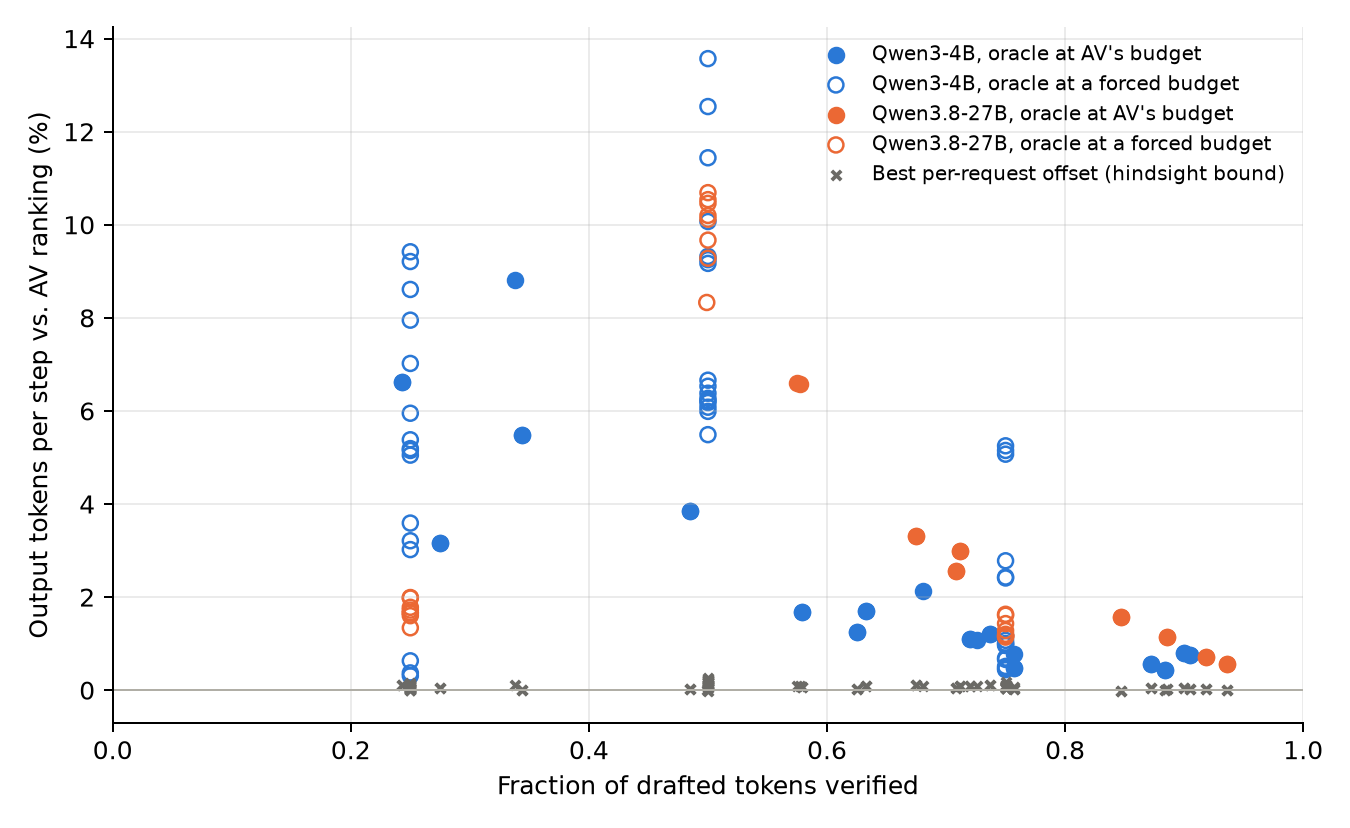
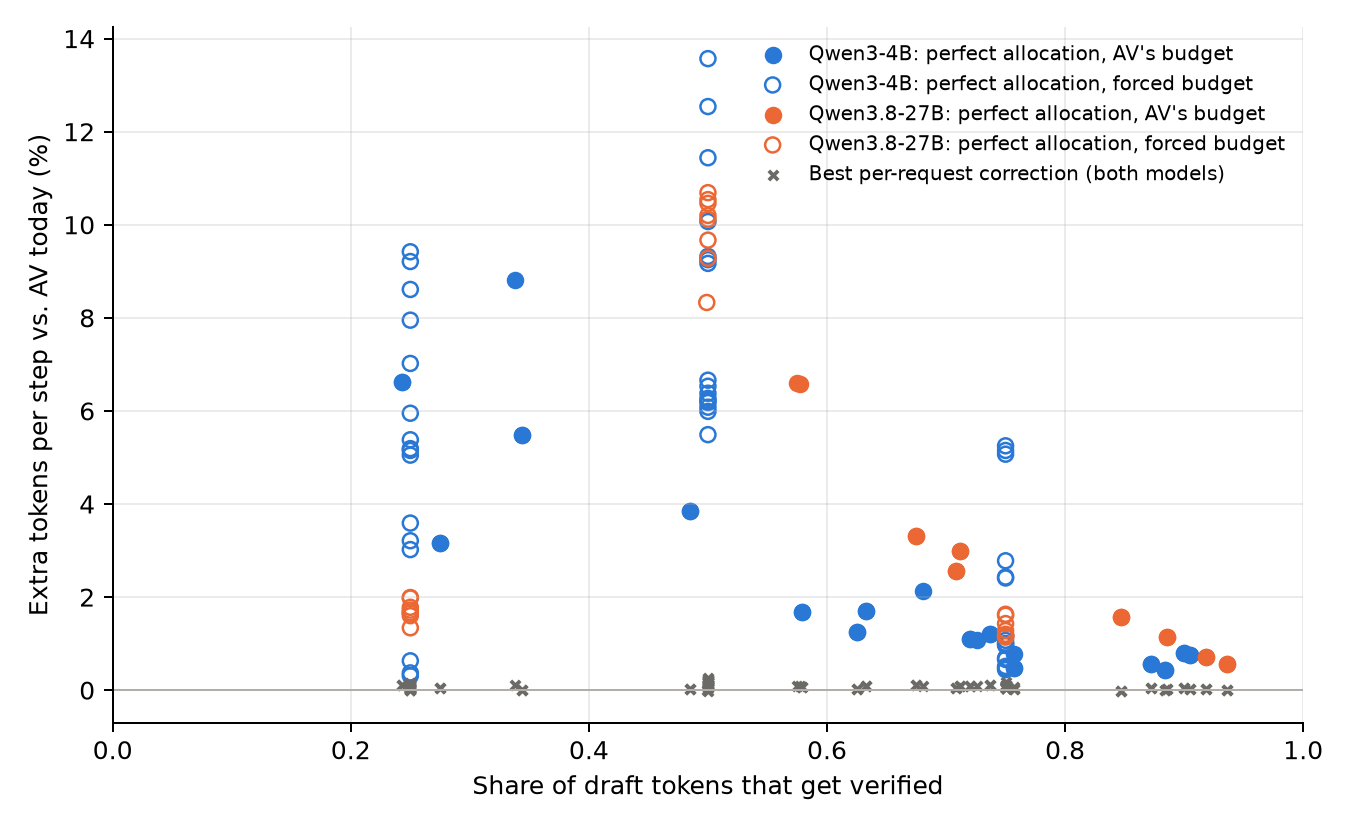
docs(research): rewrite the AV allocation note for readers

diff --git a/docs/research/vllm-knobs/adaptive-verification-allocation-oracle-headroom-tomasruizt.md b/docs/research/vllm-knobs/adaptive-verification-allocation-oracle-headroom-tomasruizt.md
@@ -1,5 +1,5 @@
 ---
-title: "Adaptive verification: oracle headroom of the per-request draft allocation, and why per-request uncertainty does not capture it (@tomasruizt)"
+title: "How much better could adaptive verification pick which drafts to verify? (@tomasruizt)"
 tags:
   - DFlash2
   - Adaptive verification
@@ -13,58 +13,107 @@ tags:
 **[@tomasruizt](https://github.com/tomasruizt)** posted on **2026-11-20**
 </div>
 
-# Adaptive verification: oracle headroom of the per-request draft allocation, and why per-request uncertainty does not capture it (@tomasruizt)
+# How much better could adaptive verification pick which drafts to verify? (@tomasruizt)
 
 Joint work with [Shubhra Pandit](https://github.com/shubhra).
 
 ## Summary
 
-Inside each step, adaptive verification (AV) gives its draft budget to the (request, position) slots with the highest survival probability, the running product of the online acceptance estimator's per-position probabilities ([vllm#52228](https://github.com/vllm-project/vllm/pull/52228)). We measured how many more tokens per step a perfect ranking would accept at the same budget, and therefore the same step cost. The oracle gains +0.4% to +3.3% where AV verifies 60% to 90% of drafts, and **+6.6% to +8.8%** where AV trims hard: Qwen3.8-27B at c256 (58% verified) and Qwen3-4B at c512 under the rejection-sampler logits cap (34% verified). No per-request uncertainty policy captures any of it (-0.5% to +0.1%). Even a per-request offset fitted in hindsight on the request's full history gains at most +0.2%. The gap is per draft, not per request.
+Adaptive verification (AV) does not verify every draft token. Each step it estimates how likely each draft is to be accepted, and sends only the most promising ones to the target model. We asked two questions:
 
-![Oracle and per-request headroom vs. the fraction of drafts verified](../../assets/research/av-allocation-oracle-headroom.png)
+1. If AV's estimate were perfect, how many more tokens would it accept per step, at the same cost?
+2. Can adding per-request uncertainty to the estimate recover some of that gain? The idea: give extra slots to requests we know little about, to find out whether their later drafts would be accepted.
 
-Each point is one model, workload and concurrency. Filled: at the budget AV chose. Hollow: at a budget forced to 25%, 50% or 75% of the drafts. Gray crosses: the hindsight per-request offset at the same budgets.
+What we found:
 
-## Motivation
+- **A perfect estimate would add little in most settings:** under 3.5% more tokens per step when AV already verifies 60% to 90% of the drafts.
+- **The gain grows when AV has to cut more drafts:** +6.6% for Qwen3.8-27B at concurrency 256, and +8.8% for Qwen3-4B at concurrency 512.
+- **Per-request uncertainty recovers none of it.** Even knowing each request's true bias in advance would gain at most +0.2%. The estimate is not systematically wrong about some requests. It is wrong about individual drafts, and those misses look random from one step to the next.
+- So, to improve AV's estimate, we need better signals about each individual draft, not uncertainty about each request.
 
-An earlier experiment by Shubhra Pandit ([shubhra/vllm#1](https://github.com/shubhra/vllm/pull/1)) added an uncertainty bonus to the estimator's logit and saw no change in throughput or acceptance length. That bonus is one value per draft position, shared by every request, and it decays with the lifetime label count of the position. With about 100 labels per position per step it drops to ~0.09 logits after the first step, so it never changed which requests get the verification slots. Per draft position, verified counts and match rates in the two arms agree within 1 to 2%.
+![Extra tokens per step from a perfect allocation, vs. the share of drafts AV verifies](../../assets/research/av-allocation-oracle-headroom.png)
 
-The open question was whether uncertainty **per request**, which changes the allocation inside a step, could help. A request that keeps getting 1 or 2 slots never reveals whether its deep drafts would have been accepted, so its estimate is never corrected. Before building such a policy we measured the upper bound.
+Each point is one model, dataset and concurrency. Filled circles use the number of drafts AV actually chose to verify. Hollow circles force that number to 25%, 50% or 75% of the drafts, to show what happens when the budget is tighter. The gray crosses (near zero) are the best per-request correction at the same budgets.
 
-## Setup
+## Background
 
-- Targets: `Qwen/Qwen3-4B` (BF16) and `Qwen/Qwen3.8-27B` (BF16). Drafters: `RedHatAI/Qwen3-4B-speculator.dflash2` (K=8) and `RedHatAI/Qwen3.8-27B-speculator.dflash2` (K=7), `"method":"dflash"`, AV on.
-- Evaluation: `RedHatAI/speculator_benchmarks`. Either one subset per run (HumanEval, math_reasoning, writing) or all 9 subsets in one seeded shuffle ("mixed", 924 prompts), so that every batch mixes code, math, writing, QA, RAG, summarization, translation and tool calls. Temperature 0, max 1,024 output tokens, 4 x c requests per concurrency (at least 128).
-- Serving: vLLM main `89e860de00` (2026-11-17) plus a trace patch, branch [`av-alloc-headroom`](https://github.com/tomasruizt/vllm/tree/av-alloc-headroom) (`3138435083`). TP1 for the 4B, TP1 and TP2 for the 27B, prefix caching off, `--max-num-seqs` equal to the highest concurrency of the run.
-- CUDA graphs cover every tested step: `max_cudagraph_capture_size = max_num_seqs x (K+1)`. The Blackwell default of 1,024 tokens sends the 4B c128 verify-all step (1,152 tokens) to eager mode.
-- Client: AIPerf 0.12.0, closed loop, one server per mode swept over the concurrencies.
-- Software and hardware: PyTorch 2.14.0+cu132, 1x or 2x NVIDIA B200 (183 GB) per server.
+How AV picks drafts today ([vllm#52228](https://github.com/vllm-project/vllm/pull/52228)): for every draft token, an online estimator predicts the chance that the target accepts it, from the drafter's own confidence. A draft only counts if all drafts before it in the same request are accepted too, so AV multiplies these chances along each request. It then verifies the B most promising drafts in the batch, where B comes from a cost model.
 
-### Method
+Shubhra first tried adding an uncertainty bonus to the estimator ([shubhra/vllm#1](https://github.com/shubhra/vllm/pull/1)) and saw no change in throughput or acceptance. That bonus was the same for every request and shrank to almost zero after the first step, so it never changed which requests got verified. A per-request version looked more promising: a request that only ever gets 1 or 2 drafts verified never shows whether its later drafts would have been accepted, so the estimator could stay wrong about it.
 
-1. **Trace.** For every verification step the patch logs each request's per-position acceptance probabilities (the ones AV ranks), its scheduled and admitted draft counts, the number of accepted drafts, and the budget AV chose.
-2. **Verify all.** With `AV_TRACE_VERIFY_ALL=1` the server still computes AV's budget but verifies every draft, so the true accepted length `a` of each request is known. At temperature 0 a width `w` would have accepted `min(w, a)`.
-3. **Replay.** At each step's budget `B`, replay allocation policies and count accepted tokens. The metric is output tokens per step (requests + accepted drafts) relative to AV's own ranking. Same `B` means the same step cost, so this is an upper bound on the throughput change.
-   - `oracle`: knows `a`, accepts `min(B, sum a)`.
-   - `calib`: AV's ranking with a per-request logit offset `u_r`, learned online by Newton steps from only the labels the policy itself verified (censored, like production). `calib_fast` forgets old labels (decay 0.8) to follow phases within a request.
-   - `UCB`: `u_r + 1.0 x sd(u_r)`, so rarely verified requests get explored. `Thompson`: `u_r` sampled from its posterior.
-   - `hindsight`: each request's offset fitted on all of its uncensored labels. Not causal, it bounds every policy that shifts one offset per request.
-4. **Check the replay.** A second server runs normal AV with the same trace. Replaying AV's ranking reproduces the widths production admitted in 99.8% to 99.96% of steps in every run.
+## How we measured it
 
-All policies stay lossless: they depend on the drafter's distribution (`q_max`) and on outcomes of earlier steps, never on the drafted token being trimmed.
+1. **Find out what would have been accepted.** We ran vLLM in a mode that verifies every draft, while still logging what AV would have chosen. At temperature 0 this tells us, for every request and step, how many drafts would have been accepted at any verification length.
+2. **Replay offline.** Step by step, with the same number of verified drafts that AV chose (so the same step cost), we compared:
+   - **AV today.**
+   - **Perfect allocation:** knows in advance how many drafts each request will accept.
+   - **Per-request strategies:** learn a correction for each request from the drafts they verified, either used directly or with exploration (UCB, Thompson sampling). Like the real system, they only learn from what they verify. All of them keep sampling lossless: they never look at the drafted token they are deciding about.
+   - **Best per-request correction:** each request's correction fitted afterwards on its complete history. No per-request strategy can beat it.
+3. **Check the replay.** On a normal AV run, replaying "AV today" reproduces AV's real decisions in 99.8% of steps or more.
 
-## Reproduction
+We report tokens produced per step, relative to AV today. The step cost is the same, so this is the most throughput a better allocation could add.
+
+## Results
+
+Mixed prompts (all 9 subsets of `RedHatAI/speculator_benchmarks`), temperature 0:
+
+| Model                      | Concurrency | Drafts AV verifies | Perfect allocation | Best per-request correction |            UCB |       Thompson |
+| -------------------------- | ----------: | -----------------: | -----------------: | --------------------------: | -------------: | -------------: |
+| Qwen3.8-27B (TP2)          |         128 |                68% |              +3.3% |                       +0.1% |          -0.1% |          -0.3% |
+| Qwen3.8-27B (TP2)          |         256 |                58% |          **+6.6%** |                       +0.1% |          -0.1% |          -0.3% |
+| Qwen3-4B                   |          64 |                28% |              +3.2% |                       +0.1% |          -0.0% |          -0.2% |
+| Qwen3-4B                   |         128 |                76% |              +0.5% |                       +0.0% |          -0.0% |          -0.1% |
+| Qwen3-4B                   |         256 |                76% |              +0.8% |                       +0.1% |          -0.0% |          -0.1% |
+| Qwen3-4B                   |         512 |                34% |          **+8.8%** |                       +0.1% |          -0.1% |          -0.4% |
+| Both, budget forced to 50% |   64 to 512 |                50% |        +9% to +11% |              +0.1% to +0.2% | -0.2% to -0.0% | -0.5% to -0.4% |
+
+The 27B served 86 and 128 requests on average at concurrency 128 and 256 (KV cache limit). The Qwen3-4B row at 512 includes vLLM's limit on how many tokens can be verified per step (see below).
+
+Earlier runs with single datasets (HumanEval, math_reasoning, writing) and with thinking off show the same pattern: +0.4% to +3% when AV verifies most drafts, up to +6.6% when it verifies fewer than half, and at most +0.3% for any per-request strategy, even with a forced budget.
+
+**Why per-request uncertainty does not help.** Compared to the estimate, requests differ only slightly in how often their drafts are accepted: a standard deviation of 1 to 5 percentage points across requests. And a request's error at one step says almost nothing about its error at the next step (correlation 0.01 to 0.05). There is nothing per request to learn or to explore.
+
+## Other things we learned
+
+- **CUDA graphs.** On Blackwell, vLLM captures graphs up to 1,024 tokens by default. A step that verifies more tokens runs without graphs and is much more expensive, which also distorts AV's cost model. We captured graphs up to `max_num_seqs x (K+1)` tokens in all runs above.
+- **A hidden cap on AV's budget.** The rejection sampler holds target logits in a 1 GB buffer, so AV can verify at most about 1 GB / (vocab size x 4 bytes) tokens per step: 1,766 for Qwen3-4B and 1,081 for Qwen3.8-27B. For Qwen3-4B at concurrency 512 this cap, not the cost model, decides how many drafts AV verifies (34% instead of 68%).
+- **The estimator stays calibrated** even though it only learns from the drafts AV verifies: predicted and observed acceptance agree within 0.6 percentage points at every position.
+- **The drafter's confidence is fully used.** A more flexible calibration of the same signal gains nothing (-0.1% to +0.0%).
+
+## Limitations
+
+- The replay assumes each request produces the same drafts it produced in the verify-all run. A different allocation would change what gets drafted next.
+- We measure tokens per step at equal cost, not end-to-end throughput.
+- Only temperature 0, B200 GPUs, DFlash2 drafters and two dense Qwen targets. We did not test DSpark or its trained confidence head, other GPUs, or MoE targets.
+
+## Next steps
+
+Test new signals about each individual draft that keep sampling lossless, for example the target model's entropy at the last accepted token (known before drafting), or the drafter's entropy and top-2 margin combined with its confidence. Evaluate them on these traces in the settings with headroom (Qwen3.8-27B at concurrency 256, Qwen3-4B at concurrency 512).
+
+## Setup and reproduction
+
+<details markdown>
+<summary>Setup</summary>
+
+- Targets: `Qwen/Qwen3-4B` and `Qwen/Qwen3.8-27B` (BF16). Drafters: `RedHatAI/Qwen3-4B-speculator.dflash2` (8 draft tokens) and `RedHatAI/Qwen3.8-27B-speculator.dflash2` (7 draft tokens), AV on.
+- Data: all 9 subsets of `RedHatAI/speculator_benchmarks` (924 prompts) shuffled with `random.Random(0)`, thinking on, max 1,024 output tokens, 4 x concurrency requests per run.
+- vLLM main `89e860de00` (2026-11-17) plus a trace patch: branch [`av-alloc-headroom`](https://github.com/tomasruizt/vllm/tree/av-alloc-headroom) (`3138435083`). `AV_TRACE_VERIFY_ALL=1` verifies every draft, `AV_TRACE_MAX_CHUNK_BYTES` lifts the 1 GB buffer limit so the verify-all runs are complete.
+- Client: AIPerf 0.12.0. Hardware: NVIDIA B200 (183 GB), PyTorch 2.14.0+cu132.
+
+</details>
+
+<details markdown>
+<summary>Commands</summary>
 
 ```bash
-# Normal AV. For the oracle trace add AV_TRACE_VERIFY_ALL=1.
-# AV_TRACE_MAX_CHUNK_BYTES lifts the 1GB rejection-sampler buffer (see Observations).
-AV_TRACE_PATH=trace.jsonl AV_TRACE_MAX_CHUNK_BYTES=8589934592 \
+AV_TRACE_PATH=trace.jsonl AV_TRACE_VERIFY_ALL=1 AV_TRACE_MAX_CHUNK_BYTES=8589934592 \
 vllm serve Qwen/Qwen3.8-27B --max-model-len 16384 --max-num-seqs 256 --tensor-parallel-size 2 \
   --max-num-batched-tokens 16384 --gpu-memory-utilization 0.85 --no-enable-prefix-caching \
   --speculative-config '{"model":"RedHatAI/Qwen3.8-27B-speculator.dflash2","num_speculative_tokens":7,"method":"dflash","enable_adaptive_verification":true}' \
   --default-chat-template-kwargs '{"enable_thinking": true}' \
   --compilation-config '{"max_cudagraph_capture_size": 2048}'
 
+AV_TRACE_PATH=trace.jsonl AV_TRACE_VERIFY_ALL=1 AV_TRACE_MAX_CHUNK_BYTES=8589934592 \
 vllm serve Qwen/Qwen3-4B --max-model-len 16384 --max-num-seqs 512 \
   --max-num-batched-tokens 16384 --gpu-memory-utilization 0.85 --no-enable-prefix-caching \
   --speculative-config '{"model":"RedHatAI/Qwen3-4B-speculator.dflash2","num_speculative_tokens":8,"method":"dflash","enable_adaptive_verification":true}' \
@@ -77,51 +126,13 @@ aiperf profile --model Qwen/Qwen3-4B --tokenizer Qwen/Qwen3-4B --url http://127.
   --extra-inputs max_tokens:1024 --extra-inputs temperature:0
 ```
 
-`mixed.jsonl` holds one `{"text": prompt}` per line: the `prompt` field of all 9 subsets of `RedHatAI/speculator_benchmarks`, shuffled with `random.Random(0)`.
+Drop `AV_TRACE_VERIFY_ALL=1` for the normal AV run that checks the replay. `mixed.jsonl` holds one `{"text": prompt}` per line.
 
-## Results
-
-Settings with headroom. Mixed workload, thinking on, full CUDA graph coverage. Tokens per step vs. AV's ranking at the same budget:
-
-| Target          | c (mean running) | Budget                    | Drafts verified |          Oracle | Hindsight offset |            calib |              UCB |         Thompson |
-| --------------- | ---------------: | ------------------------- | --------------: | --------------: | ---------------: | ---------------: | ---------------: | ---------------: |
-| Qwen3.8-27B TP2 |         128 (86) | AV                        |             68% |           +3.3% |           +0.10% |           -0.09% |           -0.09% |           -0.29% |
-| Qwen3.8-27B TP2 |        256 (128) | AV                        |             58% |       **+6.6%** |           +0.09% |           -0.12% |           -0.13% |           -0.34% |
-| Qwen3-4B        |          64 (50) | AV                        |             28% |           +3.2% |           +0.05% |           -0.04% |           -0.04% |           -0.22% |
-| Qwen3-4B        |         128 (97) | AV                        |             76% |           +0.5% |           +0.03% |           -0.02% |           -0.02% |           -0.08% |
-| Qwen3-4B        |        256 (194) | AV                        |             76% |           +0.8% |           +0.06% |           -0.02% |           -0.02% |           -0.13% |
-| Qwen3-4B        |        512 (393) | AV, cap lifted            |             68% |           +2.1% |           +0.09% |           -0.05% |           -0.07% |           -0.20% |
-| Qwen3-4B        |        512 (393) | AV, production logits cap |             34% |       **+8.8%** |           +0.12% |           -0.11% |           -0.12% |           -0.41% |
-| both            |        64 to 512 | forced to 50%             |             50% | +9.2% to +10.7% | +0.11% to +0.22% | -0.20% to -0.04% | -0.19% to -0.03% | -0.53% to -0.35% |
-
-Earlier runs, which do not change the conclusion:
-
-- Qwen3-4B, one subset per run, thinking on, c16 to c64 (default graphs): oracle +0.4% to +1.3% at c32 to c64 (AV verifies 63% to 90%), +3.9% to +6.6% at c16 (24% to 49%). Per-request policies -0.3% to +0.06%, hindsight at most +0.12%.
-- Qwen3-4B and Qwen3.8-27B (TP1), mixed, thinking off, c32 to c128: oracle +1.1% to +3.0%, hindsight at most +0.08%.
-- Qwen3.8-27B TP1, mixed, thinking on, c64 to c256: oracle +0.6% to +1.2%. The KV cache saturates at 49 to 56 running requests on average, so AV verifies 89% to 94% of drafts.
-
-Why per-request information does not help. Residual = observed minus predicted acceptance on the uncensored labels:
-
-| Workload             | sd of a request's mean residual | Split-half correlation of a request's residual | Step-to-step correlation |
-| -------------------- | ------------------------------: | ---------------------------------------------: | -----------------------: |
-| Qwen3-4B, one subset |                  0.014 to 0.033 |                                   0.10 to 0.77 |           0.014 to 0.052 |
-| Qwen3-4B, mixed      |                  0.027 to 0.046 |                                   0.24 to 0.68 |           0.027 to 0.045 |
-| Qwen3.8-27B, mixed   |                  0.024 to 0.027 |                                   0.06 to 0.28 |           0.011 to 0.025 |
-
-Requests do have a stable offset (split-half correlation up to 0.7 on mixed and writing batches), but it is a few hundredths in probability, too small to reorder the slots that decide the budget. Which draft gets rejected changes from step to step.
-
-## Observations
-
-- **Headroom tracks how hard AV trims.** At 60% to 90% verified, AV's ranking keeps 96% to 99.5% of the tokens the oracle accepts. The oracle gap peaks near a 50% budget (+9% to +11%) and shrinks again at 25%, where every policy only verifies the first, mostly accepted, positions.
-- **The rejection-sampler buffer caps the AV budget.** AV never verifies more than `2^30 / (vocab x 4)` logits per step minus one per request: 1,766 for Qwen3-4B (152K vocab) and 1,081 for Qwen3.8-27B (248K vocab). For the 4B at c512 this cap, not the cost model, sets the budget to 34% of drafts. For the 27B it binds from about 130 running requests. It also truncates a verify-all trace, so for the oracle we lifted it (`AV_TRACE_MAX_CHUNK_BYTES`) and reapplied it offline.
-- **Censoring does not bias the production estimator.** On the drafts AV verifies, predicted and observed acceptance agree within 0.006 at every position (4B, c512), and its mean predictions differ from the verify-all estimator's by at most 0.02 at deep positions. So there is no blind spot for exploration to fix.
-- **The estimator already extracts what `q_max` offers.** A per-position 20-bin recalibration of the same feature, fitted at c32 and c64 and tested at c128, changes tokens per step by -0.06% to +0.02%, while the oracle has +0.4% to +9.7% at the same budgets.
-- **The replay keeps each request's drafts as they happened under verify-all.** A different allocation would change what gets drafted later. It also measures tokens per step, not throughput: an end-to-end gain would come on top of AV's existing cost model.
-- **Next:** new lossless per-draft features, evaluated on these traces in the settings with headroom. Candidates: the target's entropy at the last accepted position (known before drafting), and the drafter's entropy and top-2 margin combined with `q_max` in one logistic model. [vllm#52228](https://github.com/vllm-project/vllm/pull/52228) compared them one at a time.
-- **Not tested:** temperature > 0, H100 or other GPUs, DFlash, DSpark and its trained confidence head, MoE targets, and end-to-end throughput of any new policy.
+</details>
 
 ## References
 
-- [vllm-project/vllm#52228](https://github.com/vllm-project/vllm/pull/52228) (online acceptance estimator), [vllm-project/vllm#51303](https://github.com/vllm-project/vllm/issues/51303) (adaptive verification tracking issue)
-- [shubhra/vllm#1](https://github.com/shubhra/vllm/pull/1) (check-count uncertainty term)
+- [vllm-project/vllm#52228](https://github.com/vllm-project/vllm/pull/52228): the online acceptance estimator
+- [vllm-project/vllm#51303](https://github.com/vllm-project/vllm/issues/51303): adaptive verification tracking issue
+- [shubhra/vllm#1](https://github.com/shubhra/vllm/pull/1): the first uncertainty experiment
 - [DFlash adaptive verification on Qwen3.5-35B-A3B: CUDA graph capture sizes](dflash-adaptive-verification-cuda-graphs-tomasruizt.md)

diff --git a/docs/research/vllm-knobs/index.md b/docs/research/vllm-knobs/index.md
@@ -11,7 +11,7 @@ Start from [`TEMPLATE.md`](TEMPLATE.md). The conventions that apply to every ent
 - [Adaptive verification vs. fixed draft budget on Gemma4-31B-it](adaptive-verification-dflash-dflash2-dspark-gemma4-shubhra.md) — AV matched a fixed budget at N≤16 and pulled ahead mid-range: +10.0% throughput / +11.8% interactivity for DFlash at N=64, with DFlash2 and DSpark close behind. At N=128 gains narrow to +1.3–4.7%; repeat spread there was under 1% of the mean, and the entry notes the smaller gains may be noise at that single point. 3 repeats at N=32–128. Acceptance length fell under load while the fixed budget's stayed flat.
 - [DFlash adaptive verification on Qwen3.5-35B-A3B: CUDA graph capture sizes](dflash-adaptive-verification-cuda-graphs-tomasruizt.md) — with default capture sizes AV *reduced* throughput by 6.6% at c128, because steps containing a prefill exceed the 1,024-token capture limit and run eagerly. Raising capture sizes to 6,144 lifted AV-off throughput 24% at c128, after which AV helped at every concurrency (+0.7–3.3%). Worth reading before trusting any AV measurement taken at default capture sizes.
 - [DSpark + GDN at block 16: does AV help with a larger draft?](dspark-gdn-block16-adaptive-verification-tomasruizt.md) — AV measured 5–25% higher throughput than fixed K=15 on Qwen3.8-27B across four concurrencies. The three methods ran concurrently on separate GPU pairs sharing host resources, so the margin may include placement and contention effects; the entry flags this and recommends a sequential rerun. Profiling at c1 found AV verified 5.91 positions per step versus 16, with GDN recurrence accounting for 47% of the target-time reduction — that profile ran on a different GPU pair and does not account for the whole sweep speedup.
-- [Adaptive verification: oracle headroom of the per-request draft allocation](adaptive-verification-allocation-oracle-headroom-tomasruizt.md): at AV's own budget, a perfect ranking of (request, position) slots would accept +0.4% to +3.3% more tokens per step where AV verifies 60% to 90% of drafts, and +6.6% to +8.8% where it trims hard (Qwen3.8-27B c256, Qwen3-4B c512 under the rejection-sampler logits cap). Per-request uncertainty policies (calibration offset, UCB, Thompson) capture none of it, and even a hindsight per-request offset gains at most +0.2%. Replay on verify-all traces at temperature 0, not end-to-end throughput.
+- [How much better could adaptive verification pick which drafts to verify?](adaptive-verification-allocation-oracle-headroom-tomasruizt.md): if AV knew exactly which drafts would be accepted, it would gain under 3.5% more tokens per step in most settings, and +6.6% to +8.8% when it has to cut more than 40% of the drafts. Per-request uncertainty (exploring requests we know little about) recovers none of this. Measured by replaying verify-all traces at temperature 0.
 
 ## Pin vLLM precisely
 
